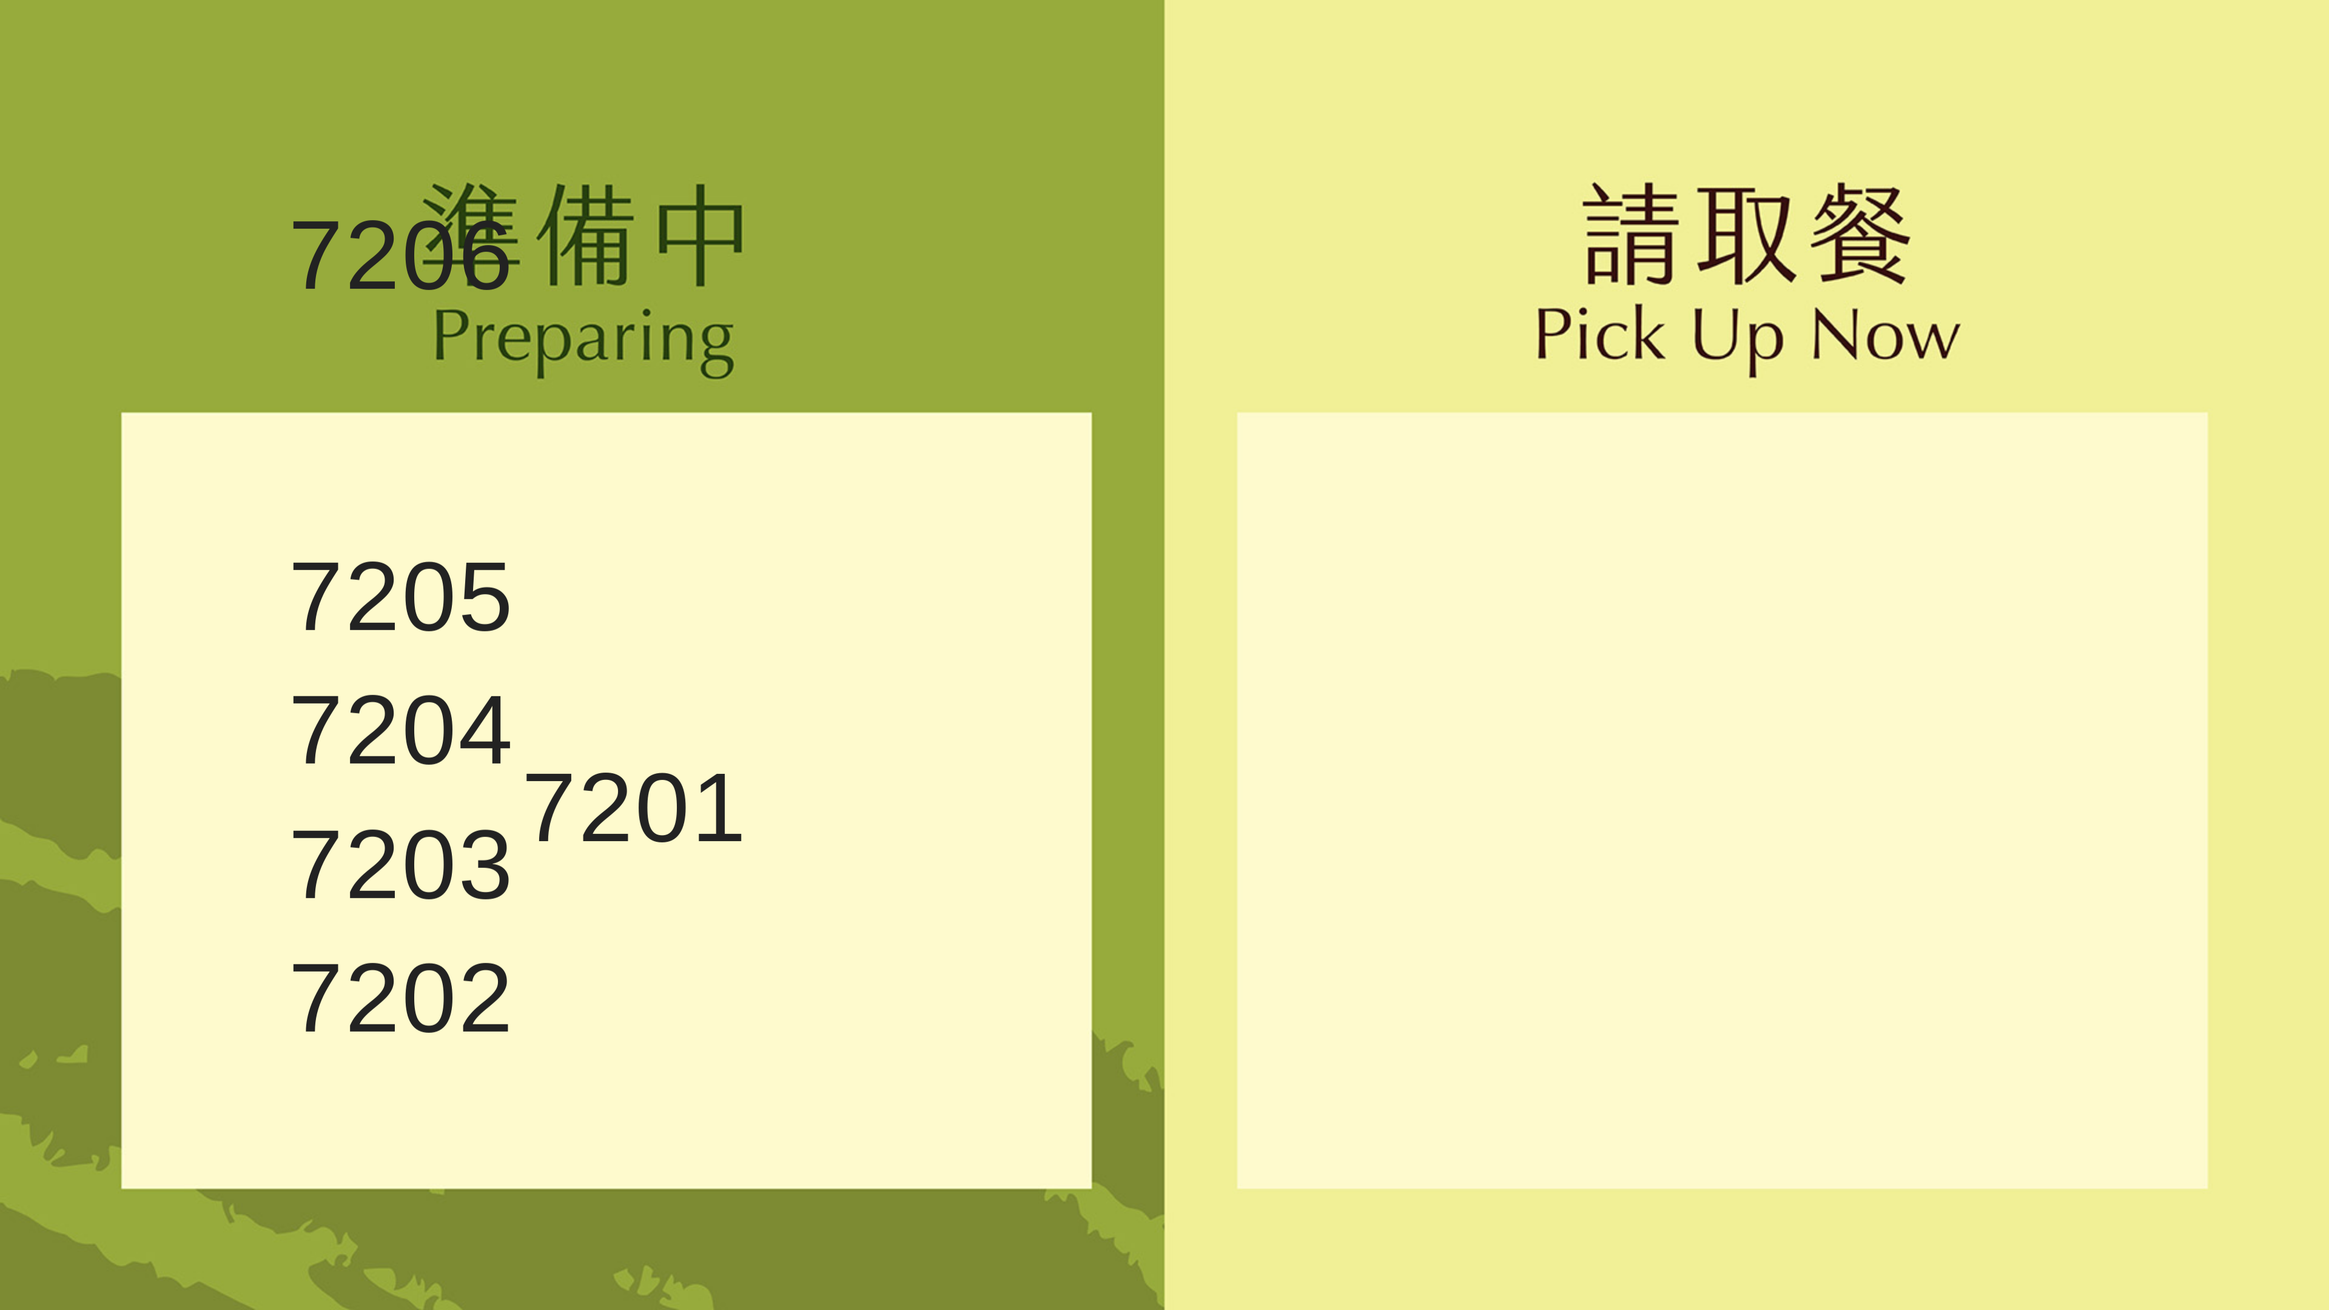
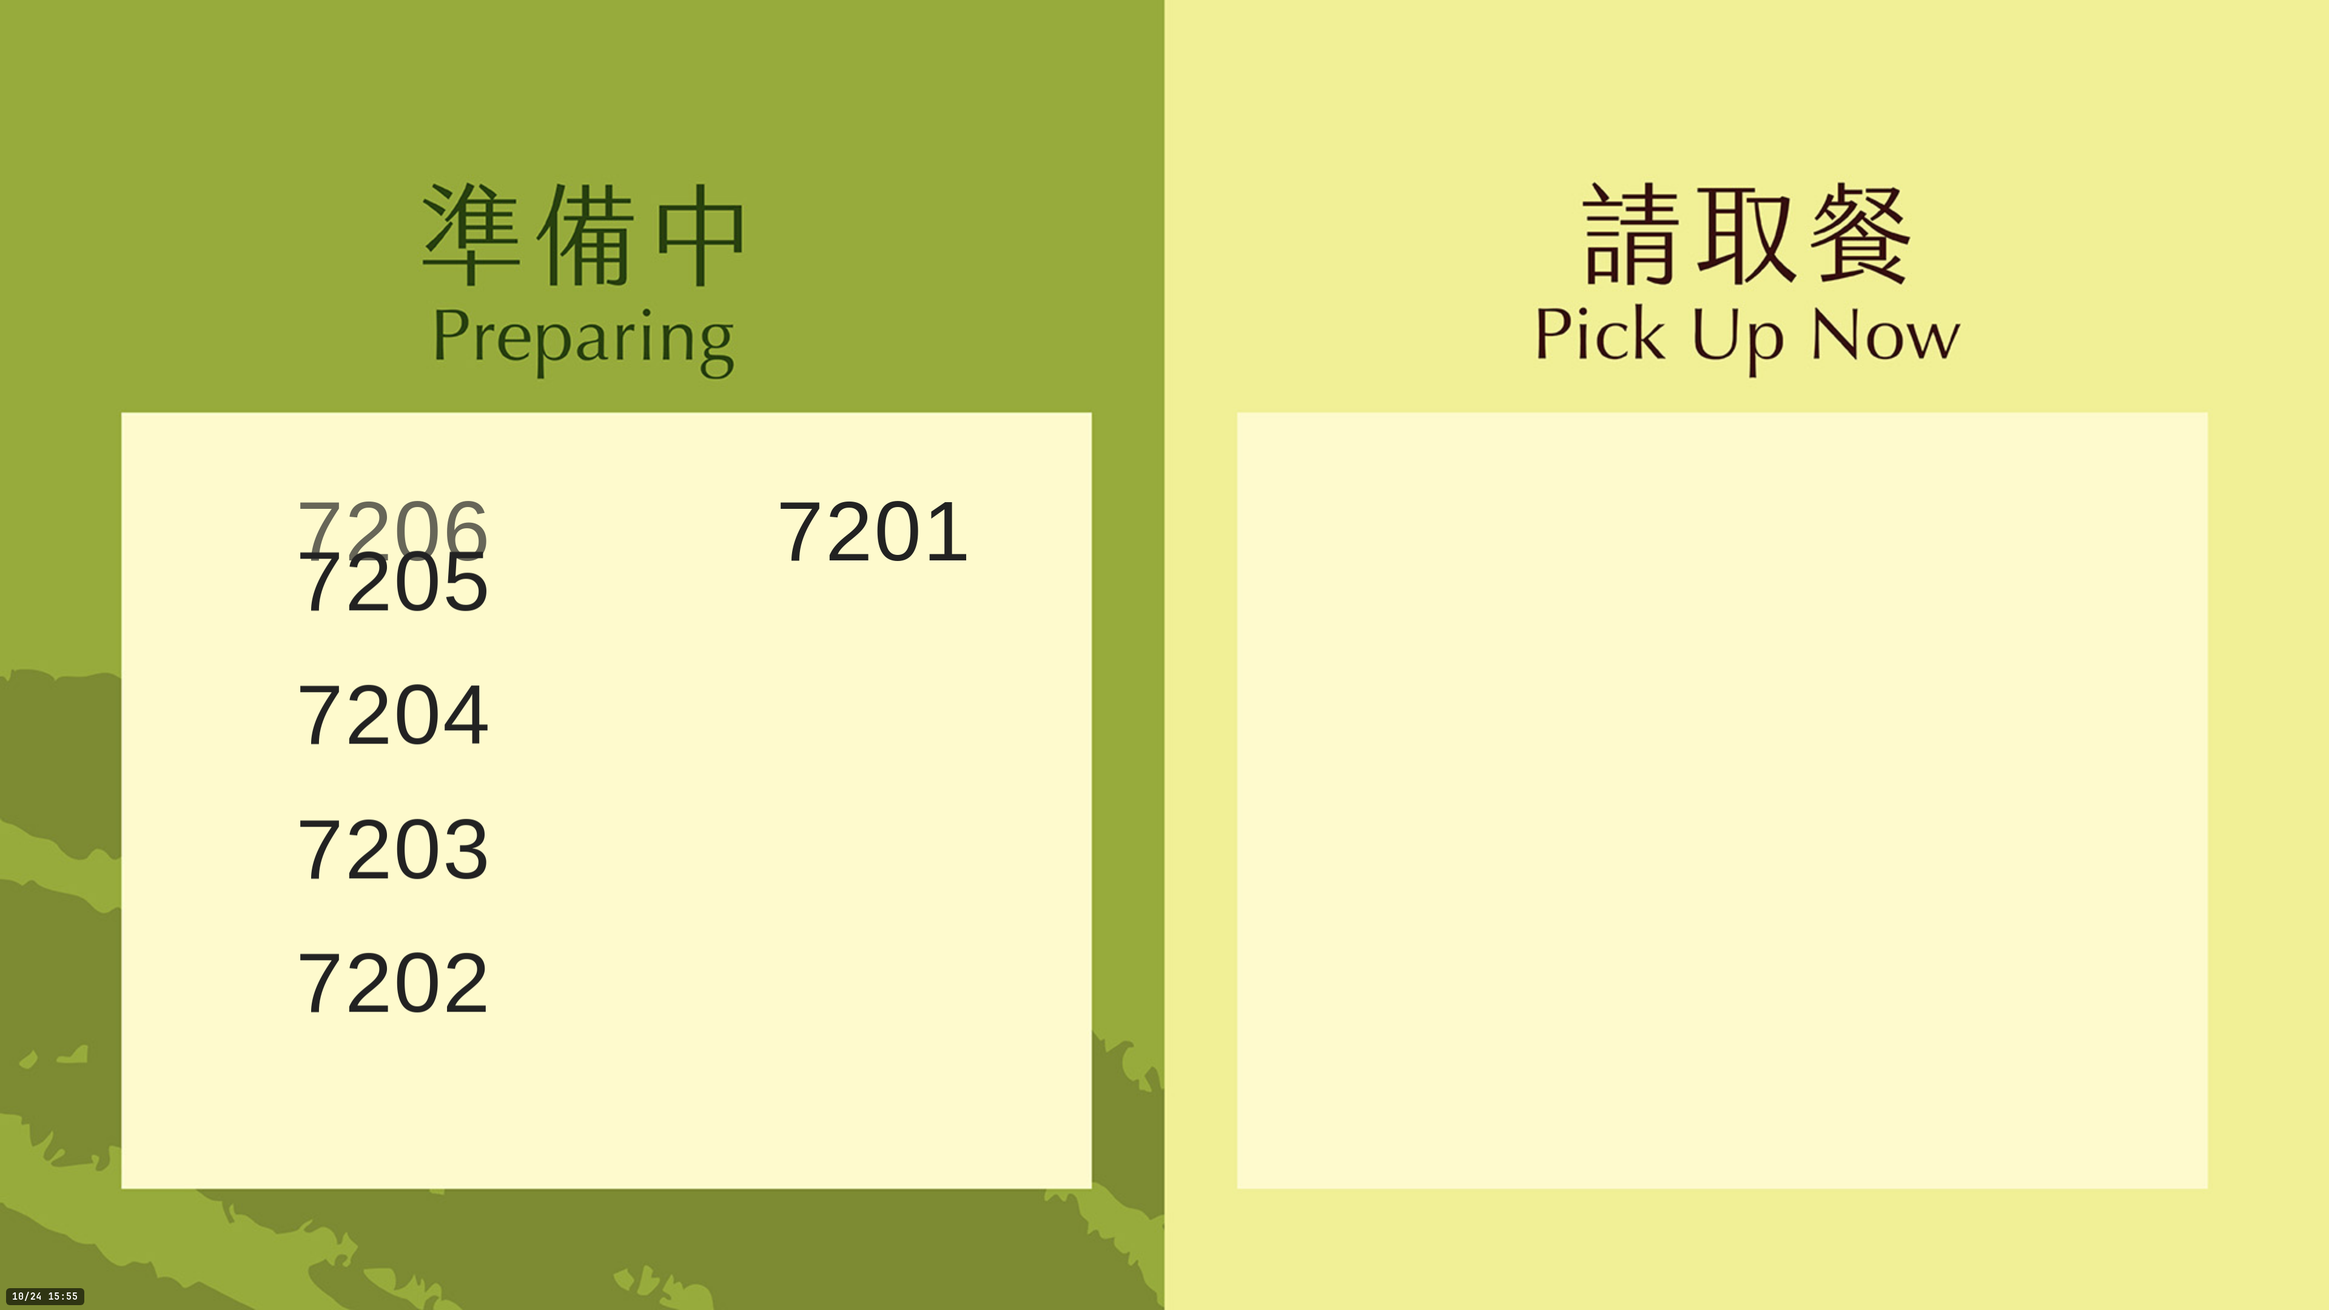
fix(board): unify slot motion — no diagonal FLIP across columns
Add cross-column and diagonal-delta rules in syncZone: chips moving between
left/right columns fade in place; same-column moves stay vertical-only.
Reparented off-page and cross-column chips clear stale FLIP rects. Page 2+
uses the same left-overflow plan as page 1 for demo prepend. E2e asserts no
diagonal motion. Preview stamp 10/24 16:06.

diff --git a/js/board/milksha-board-anim.js b/js/board/milksha-board-anim.js
@@ -395,6 +395,39 @@
   }
 
   const GRID_ROWS = 5;
+  const SLOT_MOVE_EPSILON_PX = 2;
+
+  /**
+   * @param {number} slot
+   * @returns {number}
+   */
+  function slotColumnIndex(slot) {
+    return slot < GRID_ROWS ? 0 : 1;
+  }
+
+  /**
+   * @param {number} fromSlot
+   * @param {number} toSlot
+   * @returns {boolean}
+   */
+  function isCrossColumnSlotMove(fromSlot, toSlot) {
+    if (!Number.isFinite(fromSlot) || !Number.isFinite(toSlot) || fromSlot < 0 || toSlot < 0) {
+      return false;
+    }
+    return slotColumnIndex(fromSlot) !== slotColumnIndex(toSlot);
+  }
+
+  /**
+   * @param {number} dx
+   * @param {number} dy
+   * @returns {boolean}
+   */
+  function isDiagonalLayoutDelta(dx, dy) {
+    return (
+      Math.abs(dx) > SLOT_MOVE_EPSILON_PX &&
+      Math.abs(dy) > SLOT_MOVE_EPSILON_PX
+    );
+  }
 
   /**
    * @param {Array<{ id: string }>} items
@@ -459,17 +492,6 @@
     }
     if (nextN !== prevN + 1) {
       return null;
-    }
-    if (page > 0 && prevN === 5 && nextN === 6) {
-      const nextCellsPageTwo = layoutPageGrid(nextItems, page, pageSize);
-      const occupantPageTwo = nextCellsPageTwo[GRID_ROWS];
-      if (occupantPageTwo && occupantPageTwo.id) {
-        return {
-          kind: 'right-column-fade-in',
-          focusId: occupantPageTwo.id,
-          enterSlot: GRID_ROWS,
-        };
-      }
     }
     if (prevN >= 5 && prevN <= 9 && enterSlot === 0) {
       const prevCells = layoutPageGrid(prevItems, page, pageSize);
@@ -901,6 +923,12 @@
       const prevItems = opts.prevItems || [];
       const prevPage = opts.prevPage || 0;
       const diff = diffVisibleSlots(prevItems, items, prevPage, page, deps.pageSize, deps.layoutPageGrid);
+      const prevVisibleSlotMap = visibleIdToSlot(
+        prevItems,
+        prevPage,
+        deps.pageSize,
+        deps.layoutPageGrid,
+      );
       const pageTurn = Boolean(opts.pageTurn) || diff.pageTurn;
       const cells = deps.layoutPageGrid(items, page, deps.pageSize);
       const slotEls = numbersLayer.querySelectorAll('.milksha-num-cell');
@@ -1032,9 +1060,15 @@
           if (pushedId) {
             columnMoveFadeInPlaceIds[pushedId] = true;
             columnMoveSkipFlipIds[pushedId] = true;
+            delete rectsBefore[pushedId];
           }
           for (let cmi = 0; cmi < diff.moved.length; cmi += 1) {
-            columnMoveSkipFlipIds[diff.moved[cmi].id] = true;
+            const mvCol = diff.moved[cmi];
+            columnMoveSkipFlipIds[mvCol.id] = true;
+            if (isCrossColumnSlotMove(mvCol.from, mvCol.to)) {
+              columnMoveFadeInPlaceIds[mvCol.id] = true;
+              delete rectsBefore[mvCol.id];
+            }
           }
         } else if (columnMovePlan.kind === 'right-column-fade-in') {
           const focusId = columnMovePlan.focusId;
@@ -1202,8 +1236,19 @@
             }
           }
           evictDuplicateItemIdChips(boardRoot, id, chip, numbersLayer, gen, opacityInMs, promises, pendingRemove);
+          const fromSlotReparent = prevVisibleSlotMap.get(id);
+          if (fromSlotReparent !== undefined && isCrossColumnSlotMove(fromSlotReparent, i)) {
+            columnMoveFadeInPlaceIds[id] = true;
+            columnMoveSkipFlipIds[id] = true;
+            delete rectsBefore[id];
+          } else if (!prevVisibleSlotMap.has(id)) {
+            columnMoveFadeInPlaceIds[id] = true;
+            columnMoveSkipFlipIds[id] = true;
+            delete rectsBefore[id];
+          }
           slot.appendChild(chip);
           if (columnMoveFadeInPlaceIds[id]) {
+            chip.style.transform = '';
             snapOpacity(chip, 0);
             promises.push(runOpacityAnim(chip, 0, 1, opacityInMs, gen));
           } else if (columnMoveEnterFromAboveIds[id]) {
@@ -1238,6 +1283,7 @@
           notePerf('chip-dom', { id: id });
           chipById[id] = chip;
           if (columnMoveFadeInPlaceIds[id]) {
+            chip.style.transform = '';
             promises.push(runOpacityAnim(chip, 0, 1, opacityInMs, gen));
           } else if (columnMoveEnterFromAboveIds[id]) {
             snapOpacity(chip, 0);
@@ -1283,34 +1329,14 @@
           if (!chip || pendingRemove.has(chip)) {
             return;
           }
-          if (columnMoveSkipFlipIds[mv.id]) {
-            if (columnMoveFadeInPlaceIds[mv.id]) {
-              ensureVisibleOpacity(chip);
-              return;
-            }
-            if (columnMoveEnterFromAboveIds[mv.id]) {
-              return;
-            }
-            const beforeSkipped = rectsBefore[mv.id];
-            if (!beforeSkipped) {
-              return;
-            }
-            const afterSkipped = chip.getBoundingClientRect();
-            let dxSkipped = beforeSkipped.left - afterSkipped.left;
-            const dySkipped = beforeSkipped.top - afterSkipped.top;
-            if (Math.abs(dxSkipped) > 2) {
-              snapOpacity(chip, 0);
-              dxSkipped = 0;
-            }
-            promises.push(
-              animateTranslate(chip, dxSkipped, dySkipped, columnMoveDurationMs, gen, getGeneration).then(
-                function () {
-                  if (getGeneration() === gen) {
-                    ensureVisibleOpacity(chip);
-                  }
-                },
-              ),
-            );
+          if (columnMoveEnterFromAboveIds[mv.id]) {
+            return;
+          }
+          const moveDurationMs = columnMovePlan ? columnMoveDurationMs : opacityInMs;
+          if (columnMoveFadeInPlaceIds[mv.id] || isCrossColumnSlotMove(mv.from, mv.to)) {
+            chip.style.transform = '';
+            snapOpacity(chip, 0);
+            promises.push(runOpacityAnim(chip, 0, 1, moveDurationMs, gen));
             return;
           }
           const before = rectsBefore[mv.id];
@@ -1320,7 +1346,16 @@
           const after = chip.getBoundingClientRect();
           const dx = before.left - after.left;
           const dy = before.top - after.top;
-          promises.push(animateTranslate(chip, dx, dy, opacityInMs, gen, getGeneration));
+          if (Math.abs(dx) < SLOT_MOVE_EPSILON_PX && Math.abs(dy) < SLOT_MOVE_EPSILON_PX) {
+            return;
+          }
+          if (isDiagonalLayoutDelta(dx, dy)) {
+            chip.style.transform = '';
+            snapOpacity(chip, 0);
+            promises.push(runOpacityAnim(chip, 0, 1, moveDurationMs, gen));
+            return;
+          }
+          promises.push(animateTranslate(chip, 0, dy, moveDurationMs, gen, getGeneration));
         });
       };
 
@@ -1408,6 +1443,9 @@
     detectColumnMovePlan: detectColumnMovePlan,
     countVisibleOnPage: countVisibleOnPage,
     GRID_ROWS: GRID_ROWS,
+    slotColumnIndex: slotColumnIndex,
+    isCrossColumnSlotMove: isCrossColumnSlotMove,
+    isDiagonalLayoutDelta: isDiagonalLayoutDelta,
     isBulkSnapshotReplace: isBulkSnapshotReplace,
     shouldSkipBoardAnimations: shouldSkipBoardAnimations,
     createBoardAnimator: createBoardAnimator,

diff --git a/index.html b/index.html
@@ -13,55 +13,55 @@
       href="https://fonts.googleapis.com/css2?family=Arimo:wght@400&display=swap"
       rel="stylesheet"
     />
-    <link rel="stylesheet" href="css/base.css?v=20261024h" />
-    <link rel="stylesheet" href="css/milksha-board.css?v=20261024h" />
+    <link rel="stylesheet" href="css/base.css?v=20261024i" />
+    <link rel="stylesheet" href="css/milksha-board.css?v=20261024i" />
   </head>
   <body>
     <div id="board-root"></div>
-    <script src="js/brand-loader.js?v=20261024h"></script>
-    <script src="js/audio.js?v=20261024h"></script>
-    <script src="js/board/today-board.js?v=20261024h"></script>
-    <script src="js/board/board-auto-pair.js?v=20261024h"></script>
-    <script src="js/board/board-auto-pair-host.js?v=20261024h"></script>
-    <script src="js/board/landscape-art-layout.js?v=20261024h"></script>
-    <script src="js/board/source-icons-layout.js?v=20261024h"></script>
-    <script src="js/board/milksha-board-anim-config.js?v=20261024h"></script>
-    <script src="js/board/milksha-board-anim.js?v=20261024h"></script>
-    <script src="js/transport/board-seq.js?v=20261024h"></script>
-    <script src="js/receiver/chime-policy.js?v=20261024h"></script>
-    <script src="js/milksha-board.js?v=20261024h"></script>
-    <script src="controller/store-simulation.js?v=20261024h"></script>
-    <script src="js/milksha-demo.js?v=20261024h"></script>
-    <script src="js/milksha-asset-version.js?v=20261024h"></script>
-    <script src="js/app.js?v=20261024h"></script>
-    <script src="config/firebase.js?v=20261024h"></script>
+    <script src="js/brand-loader.js?v=20261024i"></script>
+    <script src="js/audio.js?v=20261024i"></script>
+    <script src="js/board/today-board.js?v=20261024i"></script>
+    <script src="js/board/board-auto-pair.js?v=20261024i"></script>
+    <script src="js/board/board-auto-pair-host.js?v=20261024i"></script>
+    <script src="js/board/landscape-art-layout.js?v=20261024i"></script>
+    <script src="js/board/source-icons-layout.js?v=20261024i"></script>
+    <script src="js/board/milksha-board-anim-config.js?v=20261024i"></script>
+    <script src="js/board/milksha-board-anim.js?v=20261024i"></script>
+    <script src="js/transport/board-seq.js?v=20261024i"></script>
+    <script src="js/receiver/chime-policy.js?v=20261024i"></script>
+    <script src="js/milksha-board.js?v=20261024i"></script>
+    <script src="controller/store-simulation.js?v=20261024i"></script>
+    <script src="js/milksha-demo.js?v=20261024i"></script>
+    <script src="js/milksha-asset-version.js?v=20261024i"></script>
+    <script src="js/app.js?v=20261024i"></script>
+    <script src="config/firebase.js?v=20261024i"></script>
     <script src="https://www.gstatic.com/firebasejs/10.14.1/firebase-app-compat.js"></script>
     <script src="https://www.gstatic.com/firebasejs/10.14.1/firebase-auth-compat.js"></script>
     <script src="https://www.gstatic.com/firebasejs/10.14.1/firebase-firestore-compat.js"></script>
-    <script src="js/transport/paths.js?v=20261024h"></script>
-    <script src="js/transport/firebase-sdk-bridge.js?v=20261024h"></script>
-    <script src="js/transport/firestore-realtime.js?v=20261024h"></script>
-    <script src="js/transport/firestore-value.js?v=20261024h"></script>
-    <script src="js/transport/cloud-settings.js?v=20261024h"></script>
-    <script src="js/transport/config-resolve.js?v=20261024h"></script>
-    <script src="js/transport/auth-session.js?v=20261024h"></script>
-    <script src="js/transport/pos-sign.js?v=20261024h"></script>
-    <script src="js/transport/dev-command-validation.js?v=20261024h"></script>
-    <script src="js/transport/cloud-api.js?v=20261024h"></script>
-    <script src="js/transport/board-bind-api.js?v=20261024h"></script>
-    <script src="js/transport/firestore-rest.js?v=20261024h"></script>
-    <script src="js/transport/pos-receiver-validate.js?v=20261024h"></script>
-    <script src="js/transport/local-poc-coord.js?v=20261024h"></script>
-    <script src="js/transport/push-numbers-params.js?v=20261024h"></script>
-    <script src="js/transport/pos-sent-at-clock.js?v=20261024h"></script>
-    <script src="js/transport/local-cloud-shim.js?v=20261024h"></script>
-    <script src="js/transport/local-transport.js?v=20261024h"></script>
-    <script src="js/transport/firestore-transport.js?v=20261024h"></script>
-    <script src="js/transport/create-transport.js?v=20261024h"></script>
-    <script src="js/receiver/validate-request.js?v=20261024h"></script>
-    <script src="js/receiver/chime-policy.js?v=20261024h"></script>
-    <script src="js/receiver/device-command-time.js?v=20261024h"></script>
-    <script src="js/receiver/cloud-runtime.js?v=20261024h"></script>
-    <script src="js/receiver/cloud-boot.js?v=20261024h"></script>
+    <script src="js/transport/paths.js?v=20261024i"></script>
+    <script src="js/transport/firebase-sdk-bridge.js?v=20261024i"></script>
+    <script src="js/transport/firestore-realtime.js?v=20261024i"></script>
+    <script src="js/transport/firestore-value.js?v=20261024i"></script>
+    <script src="js/transport/cloud-settings.js?v=20261024i"></script>
+    <script src="js/transport/config-resolve.js?v=20261024i"></script>
+    <script src="js/transport/auth-session.js?v=20261024i"></script>
+    <script src="js/transport/pos-sign.js?v=20261024i"></script>
+    <script src="js/transport/dev-command-validation.js?v=20261024i"></script>
+    <script src="js/transport/cloud-api.js?v=20261024i"></script>
+    <script src="js/transport/board-bind-api.js?v=20261024i"></script>
+    <script src="js/transport/firestore-rest.js?v=20261024i"></script>
+    <script src="js/transport/pos-receiver-validate.js?v=20261024i"></script>
+    <script src="js/transport/local-poc-coord.js?v=20261024i"></script>
+    <script src="js/transport/push-numbers-params.js?v=20261024i"></script>
+    <script src="js/transport/pos-sent-at-clock.js?v=20261024i"></script>
+    <script src="js/transport/local-cloud-shim.js?v=20261024i"></script>
+    <script src="js/transport/local-transport.js?v=20261024i"></script>
+    <script src="js/transport/firestore-transport.js?v=20261024i"></script>
+    <script src="js/transport/create-transport.js?v=20261024i"></script>
+    <script src="js/receiver/validate-request.js?v=20261024i"></script>
+    <script src="js/receiver/chime-policy.js?v=20261024i"></script>
+    <script src="js/receiver/device-command-time.js?v=20261024i"></script>
+    <script src="js/receiver/cloud-runtime.js?v=20261024i"></script>
+    <script src="js/receiver/cloud-boot.js?v=20261024i"></script>
   </body>
 </html>

diff --git a/tests/column-move-plan.test.js b/tests/column-move-plan.test.js
@@ -68,15 +68,21 @@ function ids(n, prefix) {
   return out;
 }
 
-test('detectColumnMovePlan page 2 prepend 15->16 uses right-column-fade-in not left-overflow', function () {
+test('detectColumnMovePlan page 2 prepend 15->16 matches page 0 left-overflow', function () {
   const Anim = loadAnim();
   const prev = newestFirstIds(15, 'store');
   const next = [{ id: 'store:1099', number: '1099' }].concat(prev);
   const diff = Anim.diffVisibleSlots(prev, next, 1, 1, 10, layoutPageGrid);
   const plan = Anim.detectColumnMovePlan(prev, next, 1, 10, layoutPageGrid, diff);
-  assert.equal(plan.kind, 'right-column-fade-in');
-  assert.equal(plan.focusId, 'store:1001');
-  assert.equal(plan.enterSlot, 5);
+  assert.equal(plan.kind, 'left-column-overflow');
+  assert.equal(plan.pushedId, 'store:1001');
+  assert.equal(plan.enterSlot, 0);
+});
+
+test('isCrossColumnSlotMove detects left-bottom to right-top', function () {
+  const Anim = loadAnim();
+  assert.equal(Anim.isCrossColumnSlotMove(4, 5), true);
+  assert.equal(Anim.isCrossColumnSlotMove(3, 4), false);
 });
 
 test('detectColumnMovePlan right-column-fade-in on page 1 (5->6 visible)', function () {

diff --git a/js/milksha-asset-version.js b/js/milksha-asset-version.js
@@ -1,6 +1,6 @@
 (function (root) {
   'use strict';
-  root.MILKSHA_ASSET_VERSION = '20261024h';
+  root.MILKSHA_ASSET_VERSION = '20261024i';
   /** Visible board web build stamp (Asia/Taipei), MM/DD HH:MM */
-  root.MILKSHA_BOARD_WEB_BUILD_LABEL = '10/24 15:55';
+  root.MILKSHA_BOARD_WEB_BUILD_LABEL = '10/24 16:05';
 })(typeof globalThis !== 'undefined' ? globalThis : typeof window !== 'undefined' ? window : global);
